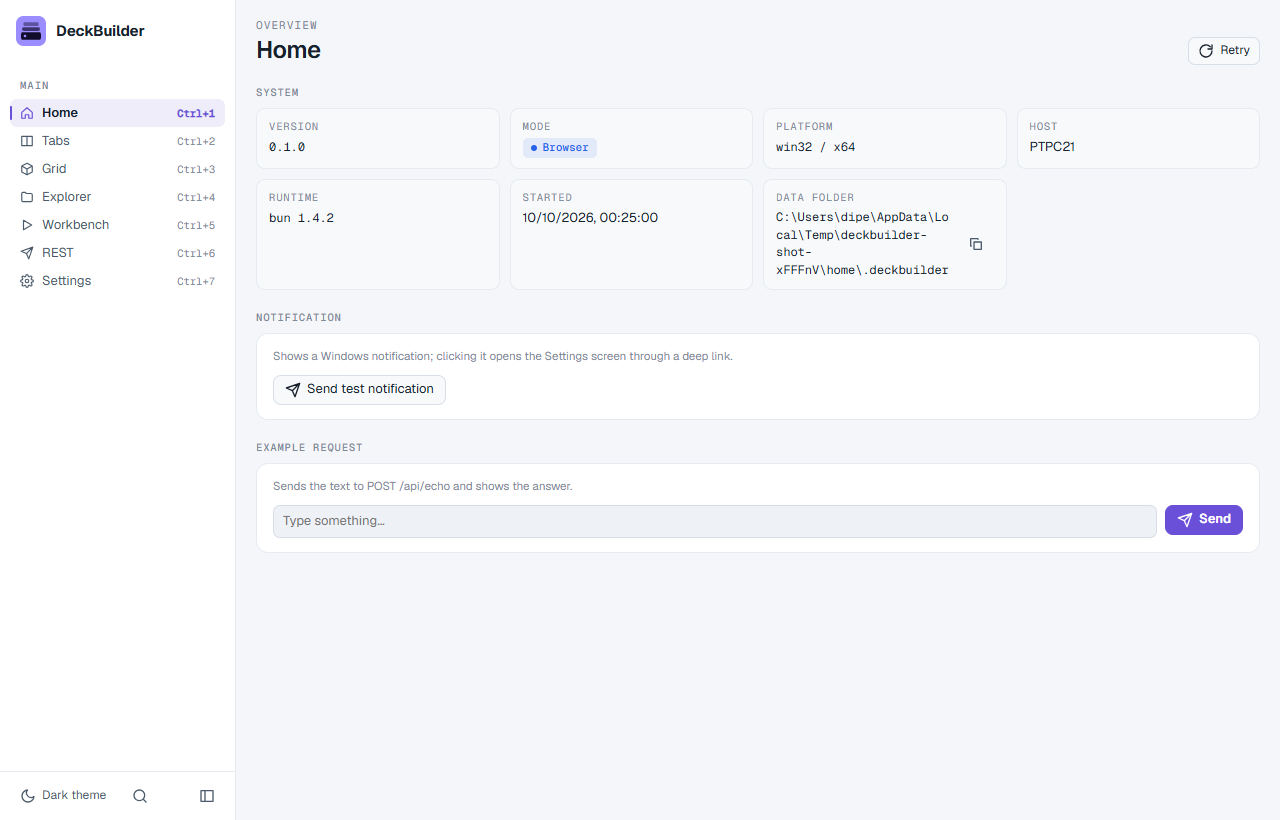
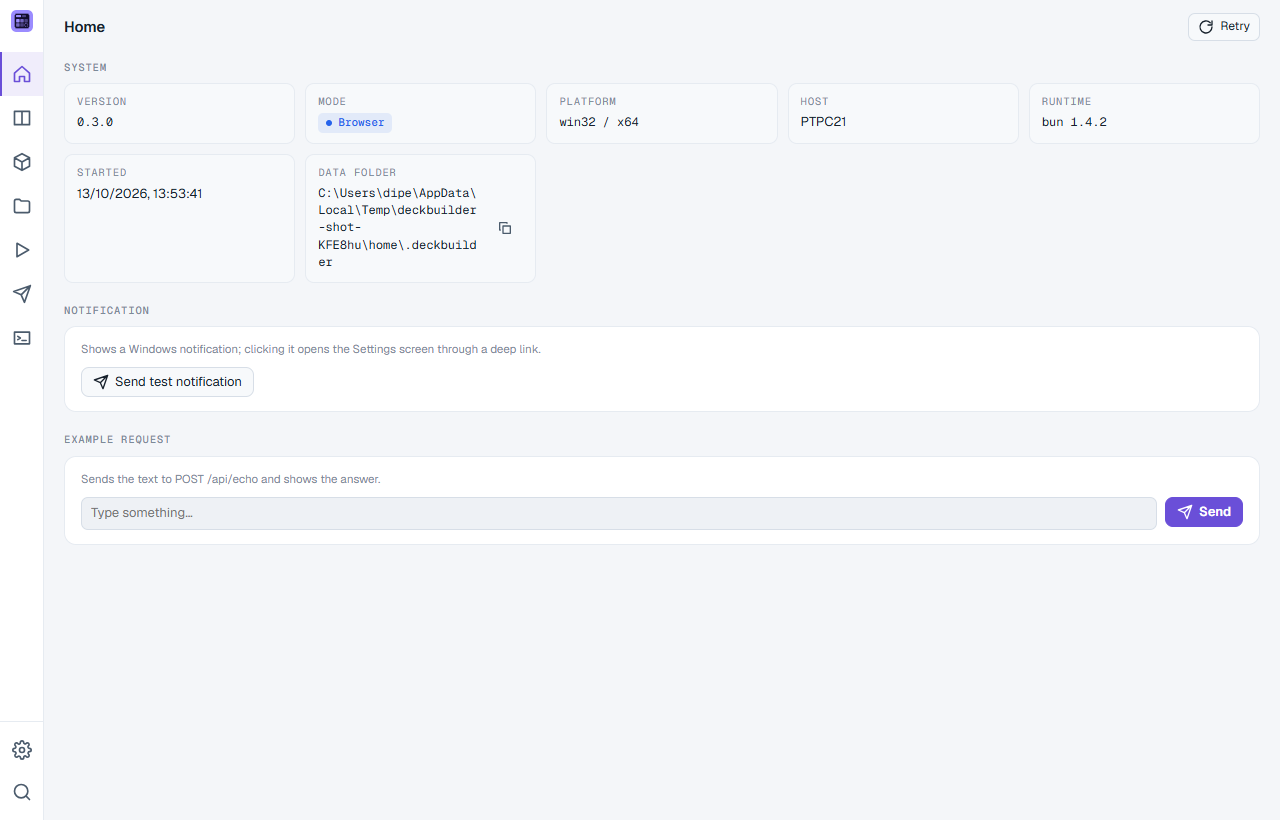
Apply chord-based default keymap, bump to v0.3.0 and retake screenshots

diff --git a/apps/gallery/web/src/commands.ts b/apps/gallery/web/src/commands.ts
@@ -15,31 +15,34 @@ export function commands(): CommandDef[] {
     paletteCommand(),
     quickOpenCommand(),
     ...nav,
-    // Settings and keybindings are modals over the screen, not screens. Ctrl+, is VS Code's; its Ctrl+K Ctrl+S
-    // is a two-key chord, which the keymap doesn't have.
+    // Settings and keybindings are modals over the screen, not screens; both are VS Code's keys.
     { id: SETTINGS_COMMAND, scope: GLOBAL, label: t('nav.settings'), keys: ['Ctrl+,'], inInput: true },
-    { id: KEYS_COMMAND, scope: GLOBAL, label: t('nav.keys'), keys: ['Ctrl+Alt+K'], inInput: true },
+    { id: KEYS_COMMAND, scope: GLOBAL, label: t('nav.keys'), keys: ['Ctrl+K Ctrl+S'], inInput: true },
     ...tabCommands('tabs'),
     ...tabCommands('explorer'),
     ...tabCommands('terminal'),
     ...explorerCommands('explorer'),
     { id: 'explorer.find', scope: 'explorer', label: t('keys.explorer.find'), keys: ['Ctrl+Alt+F'], inInput: true },
     { id: 'explorer.search', scope: 'explorer', label: t('keys.explorer.search'), keys: ['Ctrl+Shift+F'], inInput: true },
-    { id: 'explorer.revealInTree', scope: 'explorer', label: t('keys.explorer.revealInTree'), keys: [] },
-    { id: 'explorer.collapseAll', scope: 'explorer', label: t('keys.explorer.collapseAll'), keys: [] },
+    { id: 'explorer.revealInTree', scope: 'explorer', label: t('keys.explorer.revealInTree'), keys: ['Ctrl+K Ctrl+E'] },
+    { id: 'explorer.collapseAll', scope: 'explorer', label: t('keys.explorer.collapseAll'), keys: ['Ctrl+K Ctrl+Shift+0'] },
     { id: 'explorer.breadcrumbs', scope: 'explorer', label: t('keys.explorer.breadcrumbs'), keys: ['Ctrl+Shift+.', 'Ctrl+Shift+>'], inInput: true },
-    // VS Code's Zen mode is Ctrl+K Z; the keymap has no two-key chords.
-    { id: 'explorer.zen', scope: 'explorer', label: t('keys.explorer.zen'), keys: ['Ctrl+Alt+Z'], inInput: true },
+    { id: 'explorer.zen', scope: 'explorer', label: t('keys.explorer.zen'), keys: ['Ctrl+K Z'], inInput: true },
     { id: 'workbench.format', scope: 'workbench', label: t('keys.workbench.format'), keys: ['Alt+Shift+F'], inInput: true },
     { id: 'explorer.file.save', scope: 'explorer', label: t('keys.file.save'), keys: ['Ctrl+S'], inInput: true },
     { id: 'explorer.file.wrap', scope: 'explorer', label: t('keys.file.wrap'), keys: ['Alt+Z'], inInput: true },
     { id: 'explorer.sql.format', scope: 'explorer', label: t('keys.explorer.sqlFormat'), keys: ['Alt+Shift+F'], inInput: true },
-    // VS Code opens the preview to the side with Ctrl+K V; the keymap has no two-key chords.
     ...(['live', 'edit', 'split', 'preview'] as const).map((mode): CommandDef => ({
       id: `explorer.markdown.${mode}`, scope: 'explorer', label: t(`keys.markdown.${mode}`), inInput: true,
       keys: mode === 'preview' ? ['Ctrl+Shift+V'] : mode === 'split' ? ['Ctrl+Alt+V'] : [],
     })),
   ];
+}
+
+/** Commands whose keys reach the app while a terminal in view `scope` has focus; the rest goes to the shell. */
+export function terminalAppKeys(scope: string): CommandDef[] {
+  const ids = new Set(['palette.toggle', KEYS_COMMAND, `${scope}.tab.saveAll`, `${scope}.pane.maximize`, ...(scope === 'explorer' ? ['explorer.zen'] : [])]);
+  return commands().filter((d) => ids.has(d.id));
 }
 
 export function commandById(id: string): CommandDef {

diff --git a/packages/ui/src/components/TabWorkspace.tsx b/packages/ui/src/components/TabWorkspace.tsx
@@ -294,8 +294,8 @@ function TabBar<R>(props: TabBarProps<R>) {
 /**
  * Commands of a tab workspace shown in view `scope`: Alt+1..9 select a tab of the focused pane;
  * Ctrl+T, Ctrl+W and Ctrl+Tab / Ctrl+Shift+Tab only in the native window (Edge and Chrome keep
- * them in browser and app mode). Ctrl+Alt+S saves every tab with unsaved changes (VS Code's
- * Ctrl+K S needs a two-key chord, which the keymap doesn't have).
+ * them in browser and app mode). Ctrl+K S saves every tab with unsaved changes, Ctrl+K Ctrl+M
+ * maximizes the focused pane.
  */
 export function tabCommands(scope: string): CommandDef[] {
   const desktop = (name: string, key: string): CommandDef => ({ id: `${scope}.tab.${name}`, scope, label: t(`keys.tab.${name}` as BaseKey), keys: [key], desktopOnly: true });
@@ -305,9 +305,8 @@ export function tabCommands(scope: string): CommandDef[] {
     desktop('next', 'Ctrl+Tab'),
     desktop('prev', 'Ctrl+Shift+Tab'),
     ...Array.from({ length: 9 }, (_, i) => ({ id: `${scope}.tab.select${i + 1}`, scope, label: t('keys.tab.select', { n: i + 1 }), keys: [`Alt+${i + 1}`] })),
-    { id: `${scope}.tab.saveAll`, scope, label: t('keys.tab.saveAll'), keys: ['Ctrl+Alt+S'] },
-    // VS Code uses Ctrl+K Ctrl+M; the keymap has no two-key chords.
-    { id: `${scope}.pane.maximize`, scope, label: t('keys.pane.maximize'), keys: ['Ctrl+Alt+M'] },
+    { id: `${scope}.tab.saveAll`, scope, label: t('keys.tab.saveAll'), keys: ['Ctrl+K S'] },
+    { id: `${scope}.pane.maximize`, scope, label: t('keys.pane.maximize'), keys: ['Ctrl+K Ctrl+M'] },
   ];
 }
 

diff --git a/packages/build/template/web/src/App.tsx b/packages/build/template/web/src/App.tsx
@@ -28,11 +28,10 @@ function commands(): CommandDef[] {
   const nav = NAV.flatMap((s) => s.items).map((item, i): CommandDef => ({
     id: navCommandId(item.id), scope: GLOBAL, label: t(item.label), keys: [`Ctrl+${i + 1}`], inInput: true,
   }));
-  // Settings and keybindings are modals over the screen, not screens. Ctrl+, is VS Code's; its Ctrl+K Ctrl+S
-  // is a two-key chord, which the keymap doesn't have.
+  // Settings and keybindings are modals over the screen, not screens; both are VS Code's keys.
   const overlays: CommandDef[] = [
     { id: SETTINGS_COMMAND, scope: GLOBAL, label: t('nav.settings'), keys: ['Ctrl+,'], inInput: true },
-    { id: KEYS_COMMAND, scope: GLOBAL, label: t('nav.keys'), keys: ['Ctrl+Alt+K'], inInput: true },
+    { id: KEYS_COMMAND, scope: GLOBAL, label: t('nav.keys'), keys: ['Ctrl+K Ctrl+S'], inInput: true },
   ];
   return [paletteCommand(), ...nav, ...overlays];
 }

diff --git a/apps/gallery/web/src/screens/ExplorerScreen.tsx b/apps/gallery/web/src/screens/ExplorerScreen.tsx
@@ -41,7 +41,7 @@ import {
 } from '@deckbuilder/ui';
 import { closeSession } from '@deckbuilder/terminal';
 import { api, type ExplorerSettings, type LogSettings, type Project, type Settings } from '../api';
-import { commandById } from '../commands';
+import { commandById, terminalAppKeys } from '../commands';
 import { fullPath, nodeId } from '../explorer-paths';
 import { t } from '../i18n';
 import type { ScreenId } from '../nav';
@@ -554,6 +554,7 @@ export function ExplorerScreen({ settings, onSave, go }: { settings: Settings; o
                   session={tab.route.session}
                   cwd={{ root: tab.route.project, path: tab.route.path }}
                   onSession={(id) => onSession(tab.id, id)}
+                  appKeys={terminalAppKeys('explorer')}
                 />
               </Suspense>
             ) : (

diff --git a/packages/ui/tests/keybindings.test.ts b/packages/ui/tests/keybindings.test.ts
@@ -203,3 +203,15 @@ describe('ownsKey', () => {
   });
 });
 
+describe('gallery default keymap', () => {
+  test('has no conflicts or prefix clashes', async () => {
+    const store = new Map<string, string>();
+    const storage = { getItem: (k: string) => store.get(k) ?? null, setItem: (k: string, v: string) => void store.set(k, v), removeItem: (k: string) => void store.delete(k) };
+    Object.assign(globalThis, {
+      window: { location: { href: 'http://localhost/', search: '', hash: '' }, history: { replaceState() {} }, sessionStorage: storage, localStorage: storage, matchMedia: () => ({ matches: false }) },
+      localStorage: storage, sessionStorage: storage,
+    });
+    const { commands } = await import('../../../apps/gallery/web/src/commands.ts');
+    expect(conflictsOf(commands(), {})).toEqual([]);
+  });
+});

diff --git a/apps/gallery/web/src/screens/TerminalScreen.tsx b/apps/gallery/web/src/screens/TerminalScreen.tsx
@@ -16,6 +16,7 @@ import {
   useDebouncedSave,
 } from '@deckbuilder/ui';
 import type { Settings } from '../api';
+import { terminalAppKeys } from '../commands';
 import { t } from '../i18n';
 import './terminal-screen.css';
 
@@ -150,6 +151,7 @@ export function TerminalScreen({ settings, onSave }: { settings: Settings; onSav
             session={tab.route.session}
             cwd={tab.route.root !== undefined ? { root: tab.route.root, path: tab.route.path ?? '' } : undefined}
             onSession={(id) => onSession(tab.id, id)}
+            appKeys={terminalAppKeys('terminal')}
             onTitle={(title) => {
               const session = latest.current.panes.flatMap((p) => p.tabs).find((x) => x.id === tab.id)?.route.session;
               if (session) setTitles((m) => ({ ...m, [session]: title }));

diff --git a/packages/ui/src/components/CommandPalette.tsx b/packages/ui/src/components/CommandPalette.tsx
@@ -156,9 +156,9 @@ export function CommandPalette({ items, onClose, initialQuery = '' }: { items: P
   );
 }
 
-/** Ctrl+K and Ctrl+Shift+P toggle the palette on commands (a `>` typed), also while typing and while it is open. */
+/** Ctrl+Shift+P and F1 toggle the palette on commands (a `>` typed), also while typing and while it is open. */
 export function paletteCommand(): CommandDef {
-  return { id: 'palette.toggle', scope: GLOBAL, label: t('keys.palette'), keys: ['Ctrl+K', 'Ctrl+Shift+P'], inInput: true, inModal: true };
+  return { id: 'palette.toggle', scope: GLOBAL, label: t('keys.palette'), keys: ['Ctrl+Shift+P', 'F1'], inInput: true, inModal: true };
 }
 
 /** Ctrl+P opens the palette on files (on commands when the screen offers no files). */

diff --git a/packages/build/src/release.ts b/packages/build/src/release.ts
@@ -49,7 +49,7 @@ function writeSig(dir: string, sig: string | null): void {
   else rmSync(join(dir, MANIFEST_SIG), { force: true });
 }
 
-/** Tags of an app's releases start with its folder name: `gallery-v0.2.0`. */
+/** Tags of an app's releases start with its folder name: `gallery-v0.3.0`. */
 const tagPrefix = (app: AppDir): string => `${basename(app.dir)}-v`;
 
 /** Runs git in the workspace root; returns trimmed stdout, throws with stderr on failure. */

diff --git a/apps/gallery/web/src/i18n/pt-BR.ts b/apps/gallery/web/src/i18n/pt-BR.ts
@@ -23,7 +23,7 @@ export const ptBR: Messages<typeof en> = {
   'palette.group.app': 'App',
   'palette.theme': 'Tema: {name}',
   'palette.quit': 'Sair do {name}',
-  'nav.palette': 'Paleta de comandos (Ctrl+K)',
+  'nav.palette': 'Paleta de comandos (Ctrl+Shift+P)',
 
   'home.title': 'Início',
   'home.system': 'Sistema',

diff --git a/packages/build/template/web/src/i18n/pt-BR.ts b/packages/build/template/web/src/i18n/pt-BR.ts
@@ -13,7 +13,7 @@ export const ptBR: Messages<typeof en> = {
   'palette.group.app': 'App',
   'palette.theme': 'Tema: {name}',
   'palette.quit': 'Sair do {name}',
-  'nav.palette': 'Paleta de comandos (Ctrl+K)',
+  'nav.palette': 'Paleta de comandos (Ctrl+Shift+P)',
 
   'home.title': 'Início',
   'home.system': 'Sistema',

diff --git a/apps/gallery/web/src/i18n/en.ts b/apps/gallery/web/src/i18n/en.ts
@@ -21,7 +21,7 @@ export const en = {
   'palette.group.app': 'App',
   'palette.theme': 'Theme: {name}',
   'palette.quit': 'Quit {name}',
-  'nav.palette': 'Command palette (Ctrl+K)',
+  'nav.palette': 'Command palette (Ctrl+Shift+P)',
 
   'home.title': 'Home',
   'home.system': 'System',

diff --git a/packages/build/template/web/src/i18n/en.ts b/packages/build/template/web/src/i18n/en.ts
@@ -11,7 +11,7 @@ export const en = {
   'palette.group.app': 'App',
   'palette.theme': 'Theme: {name}',
   'palette.quit': 'Quit {name}',
-  'nav.palette': 'Command palette (Ctrl+K)',
+  'nav.palette': 'Command palette (Ctrl+Shift+P)',
 
   'home.title': 'Home',
   'home.system': 'System',
